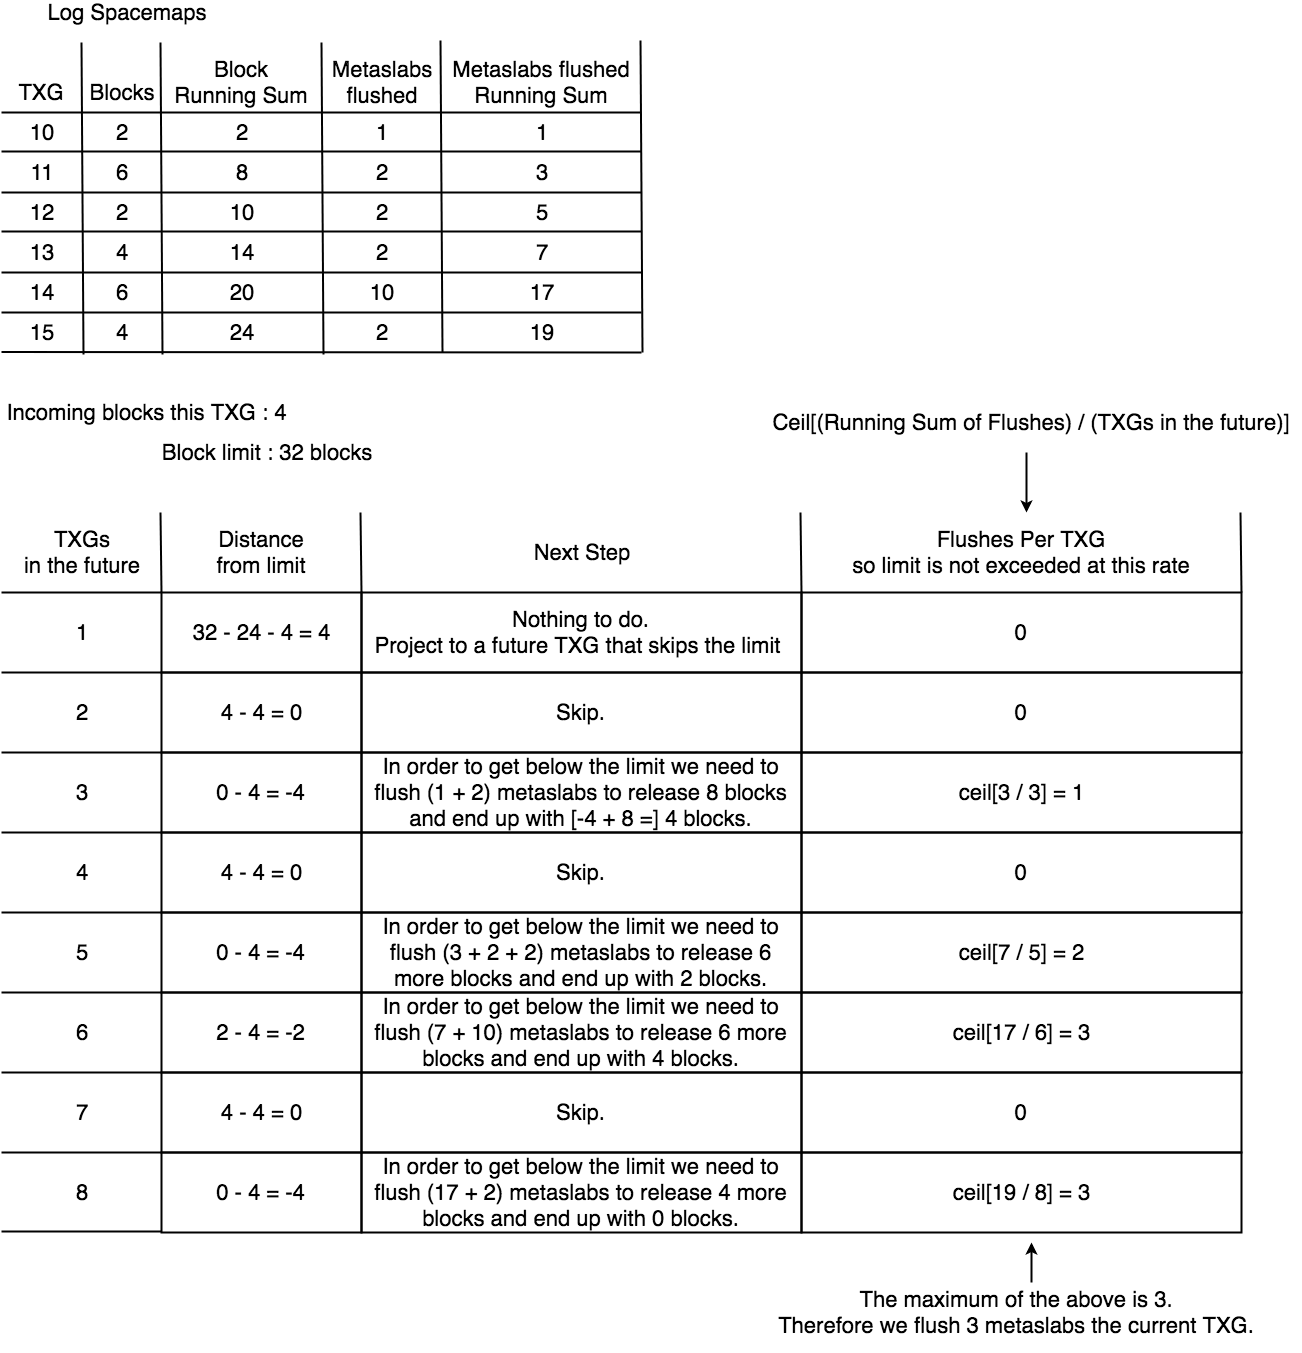
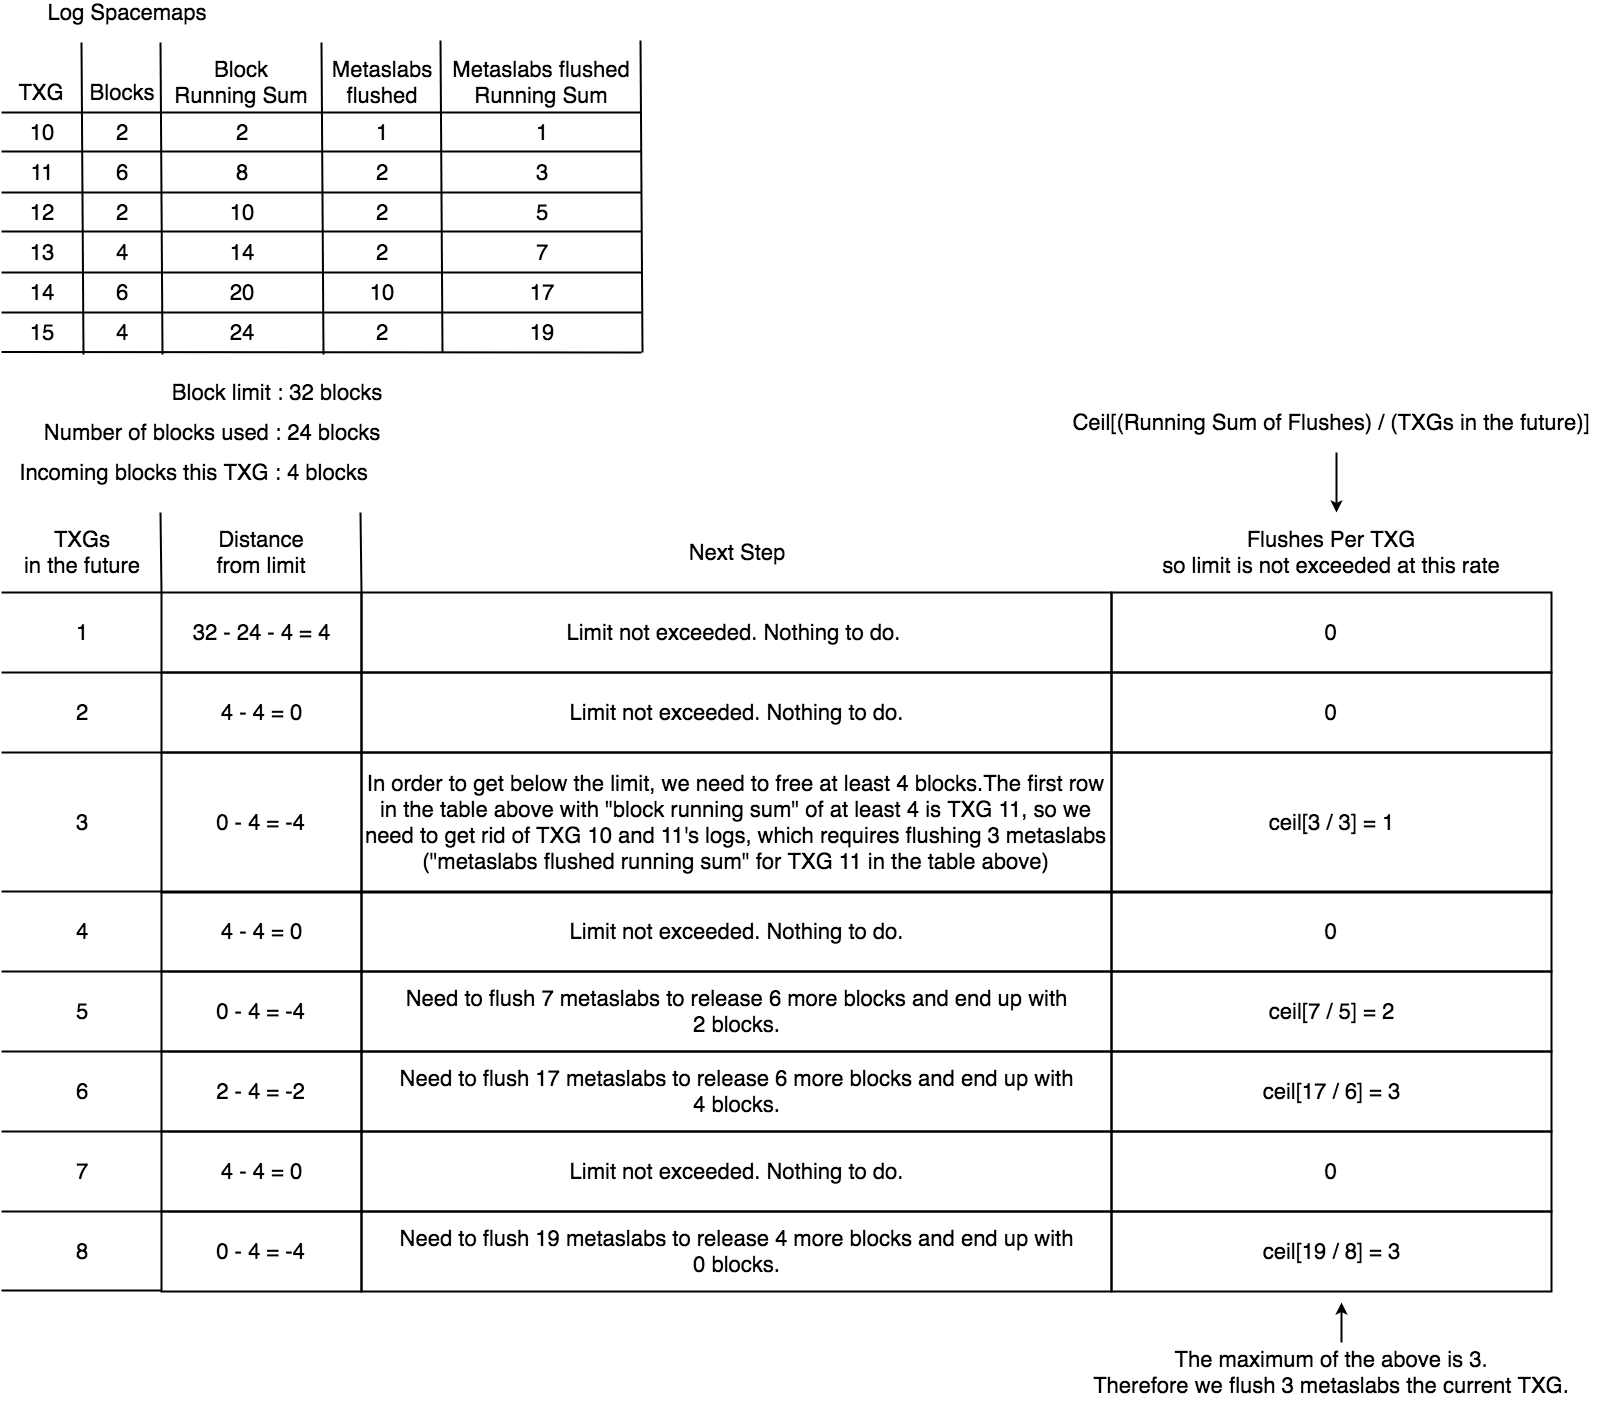
apply feedback to latest post

Changed region(s): [[0.0, 0.3725, 0.9831, 0.9933], [0.0, 0.0, 0.4916, 0.3415], [0.6144, 0.2794, 1.0, 0.3415]]

diff --git a/post/zfs-lsm-flushing/index.html b/post/zfs-lsm-flushing/index.html
@@ -26,8 +26,9 @@
 of the Log Spacemap project - a project that Matt started a long time ago and
 we ended up finishing together the beginning of this year. In order to fully
 grasp the context of this post, I highly recommend that you watch last year&rsquo;s
-presentation first. Regardless, there is still a brief overview in this post,
-as I believe that the subject discussed can be presented in a more abstract manner.</p>
+presentation first (<a href="https://www.youtube.com/watch?v=jj2IxRkl5bQ">link</a>).
+Regardless, there is still a brief overview in this post, as I believe that the
+subject discussed can be presented in a more abstract manner.</p>
 
 <p>This post is about the flushing algorithm of the Log Spacemap project that was
 left as an open question during the aforementioned presentation. It describes the
@@ -40,7 +41,7 @@ that feature to analyze its behavior.</p>
 
 <p>Log spacemaps are an optimization in ZFS metadata allocation for pools whose workloads
 are primarily random-writes (e.g. pools used for databases, VMs, etc..) with high
-levels of fragmentations. To give some background, each vdev in ZFS is divided into
+levels of fragmentation. To give some background, each vdev in ZFS is divided into
 equal parts called metaslabs. ZFS represents each metaslab on-disk with a structure
 called a spacemap (an append-only log of allocations and frees) and in-memory with an
 AVL tree where each node represents a range of free space.</p>
@@ -55,7 +56,7 @@ Instead of doing that, a pool with the Log Spacemap feature enabled, logs the
 changes of all metaslabs in-memory, in 2 new AVL trees per metaslab (called
 <code>unflushed_allocs</code> and <code>unflushed_frees</code>). It also issues a single I/O with all the
 metaslab changes in a pool-wide spacemap on-disk (the <code>log spacemap</code>), for persistence.
-Persistance is needed specifically for the case that a crash happens and the pool
+Persistence is needed specifically for the case that a crash happens and the pool
 has to reconstruct its unflushed state (e.g. repopulated <code>unflushed_allocs</code> and
 <code>unflushed_frees</code> of each metaslab).</p>
 
@@ -68,38 +69,44 @@ following reasons:</p>
 <li>Decrease overheads in the import time after a crash.</li>
 </ol>
 
-<p>[1] happens as the flushing a metaslab means flushing all the segments of <code>unflushed_allocs</code>
-and <code>unflushed_frees</code> in-memory to the metaslab&rsquo;s spacemap on-disk. For [2] the
-situation is a bit more complicated. As TXGs pass and we flush metaslabs from
-oldest-flushed to recently-flushed, log spacemaps of old TXGs become obsolete.
-A log spacemap is said to be obsolete when all its entries have made it to their
-respective metaslab spacemaps. Obsolete log spacemaps can be safely destroyed as
-they are no longer relevant. Obsolete logs are destroyed every TXG so in the
-case of an import after a crash we have less log spacemaps to read in order to
-reconstruct the unflushed state of the pool.</p>
+<p>[1] happens as flushing a metaslab means writing all its segments from <code>unflushed_allocs</code>
+and <code>unflushed_frees</code> to the metaslab&rsquo;s spacemap on-disk, after which we can discard
+the in-memory unflushed trees. For [2] the situation is a bit more complicated.
+As TXGs pass and we flush metaslabs from oldest-flushed to recently-flushed, log
+spacemaps of old TXGs become obsolete. A log spacemap is said to be obsolete when
+all its entries have made it to their respective metaslab spacemaps. Obsolete log
+spacemaps can be safely destroyed as they are no longer relevant. Obsolete logs
+are destroyed every TXG so in the case of an import after a crash we have fewer
+log spacemaps to read in order to reconstruct the unflushed state of the pool.</p>
+
+<p>The decision of flushing metaslabs in order, from oldest to recently flushed, is
+essential here as it helps us determine when a log spacemap becomes obsolete.
+Without having to look at its actual entries, we can be certain that a log spacemap
+is obsolete if all the metaslabs in the pool have been flushed since the TXG that
+the spacemap was created. Thus, flushing the oldest-flushed metaslab is always
+best for helping to delete old log spacemaps.</p>
 
 <h4 id="why-is-the-flushing-algorithm-important">~ Why is the flushing algorithm important?</h4>
 
-<p>There are two aspects of the Log Spacemap feature that can be problematic if there
-is no explicit policy on how flushing is handled. The most straightforward one is
-memory usage. In this new world, each metaslab has 2 extra AVL trees that contain
-segments which are waiting to be flushed to their metaslab&rsquo;s spacemap. The more
-segments are held in memory like this, the bigger the pressure on the system. When
-we flush a metaslab, we flush all the segments from the aforementioned AVLs to disk,
-relieving some of this pressure.</p>
+<p>There are a few aspects of the Log Spacemap feature that can be problematic if
+there is no explicit policy on how flushing is handled. The most straightforward
+one is memory usage. In this new world, each metaslab has 2 extra AVL trees that
+contain segments which are waiting to be flushed to their metaslab&rsquo;s spacemap.
+The more segments are held in memory like this, the bigger the pressure on the
+system. When we flush a metaslab, we flush all the segments from the aforementioned
+AVLs to disk, relieving some of this pressure.</p>
 
-<p>The other aspect is the amount of blocks used for log spacemaps on-disk. Not only
-the amount of log spacemaps blocks shouldn&rsquo;t grow without a bound, but there should
-be an explicit limit to keep it in check. If no such limit exists there would be
-no bound to the overhead induced at import time after a crash. Flushing metaslabs
-often can help keep the log short. On the other hand, flushing too often defeats
-the purpose of the log spacemap feature.</p>
+<p>The other aspect is the amount of blocks used for log spacemaps on-disk. There
+should be an explicit limit to keep it in check. If no such limit exists there
+would be no bound to the overhead induced at import time after a crash. Flushing
+metaslabs often can help keep the log short. On the other hand, flushing too often
+defeats the purpose of the log spacemap feature.</p>
 
 <p>To summarize the above, the ideal flushing algorithm should:</p>
 
 <ol>
-<li>React when the memory usage of the feuture is getting out of hand.</li>
-<li>Don&rsquo;t flush metaslabs too often in order to minimize the # of I/Os issued.</li>
+<li>React when the memory usage of the feature is getting out of hand.</li>
+<li>Not flush metaslabs too often in order to minimize the # of I/Os issued.</li>
 <li>Flush metaslabs rarely enough so they utilize their I/O blocksize.</li>
 <li>Flush frequently enough so import times after crashing are not severely impacted.</li>
 <li>Behave in a consistent and predictable manner.</li>
@@ -120,10 +127,11 @@ are doing.</p>
 <p>The simplest approach to this is to ensure that the memory usage of the unflushed
 trees stays below a certain threshold. The threshold can be determined by an
 arbitrary hard limit (e.g. 1GB is the max amount of memory that can be used by
-unflushed changes), and an arbitrary percentage of the system&rsquo;s memory (e.g.
-unflushed changes should not take up more that 0.1% of the system&rsquo;s memory). From
-these two, we pick the lowest one as the threshold. Whenever the threshold is
-exceeded the system starts flushing metaslabs until it gets below it again.</p>
+all unflushed changes in the pool), and an arbitrary percentage of the system&rsquo;s
+memory (e.g. unflushed changes should not take up more that 0.1% of the system&rsquo;s
+memory). From these two, we pick the lowest one as the threshold. Whenever the
+threshold is exceeded the system starts flushing metaslabs until it gets below
+it again.</p>
 
 <h4 id="coming-up-with-a-block-heuristic">~ Coming up with a block heuristic</h4>
 
@@ -135,16 +143,13 @@ a future section, and it allows us to focus on the flushing algorithm. Before th
 happens though, it is helpful to define a more abstract model on how log spacemap
 blocks are deleted on a running system.</p>
 
-<p>The model goes like this: At TXG <code>T</code>, a group of metaslabs <code>G</code> is flushed and the
-changes of all the metaslabs in the pool are written in a log spacemap <code>S</code>.
-Metaslabs picked for group <code>G</code> that will be flushed, are always chosen in an ordered
-fashion from oldest-flushed to recently-flushed from all the metaslabs in the pool.
-The idea here is that in theory the oldest-flushed had enough time to accumulate
-changes and utilize its blocksize better when we flush it than a metaslab that was
-just flushed and doesn&rsquo;t have unflushed changes. As TXGs pass, more metaslabs are
-flushed and entries from <code>S</code> become obsolete. At some point, the system does a full
-circle around the metaslabs and has flushed each one of them. At that point it is
-guaranteed that all blocks from <code>S</code> are obsolete, and <code>S</code> can be destroyed.</p>
+<p>The model goes like this: At TXG <code>T</code>, the changes of all the metaslabs in the
+pool are written in a log spacemap <code>S</code> and a group of metaslabs <code>G</code> is flushed.
+Metaslabs in group <code>G</code> are always chosen in an ordered fashion from oldest-flushed
+to recently-flushed from all the metaslabs in the pool. As TXGs pass, more metaslabs
+are flushed and entries from <code>S</code> become obsolete. At some point, the system does a
+full circle around the metaslabs and has flushed each one of them. At that point it
+is guaranteed that all blocks from <code>S</code> are obsolete, and <code>S</code> can be destroyed.</p>
 
 <p>The simplest example of the above model is a hypothetical pool with 10 metaslabs.
 At TXG 1, we flush metaslab 1 and log all the changes of all metaslabs in log
@@ -157,11 +162,11 @@ can get rid of log 1 and all of its blocks.</p>
 
 <p>So with the above model in mind we are ready to start coming up with heuristics:</p>
 
-<h4 id="limit-only-heuristic">* Limit-Only Heuristic</h4>
+<h4 id="block-limit-only-heuristic">* Block Limit-Only Heuristic</h4>
 
 <p>The simplest heuristic would be to just let the limit do the work. In other words,
-whenever the limit is exceeded, keep flushing metaslabs until enough blocks are
-destroyed and the system is again below the limit.</p>
+whenever the block limit is exceeded, keep flushing metaslabs until enough blocks
+are destroyed and the system is again below the limit.</p>
 
 <p>The problem with this approach is visible through the graphs below.
 <p align="center">
@@ -174,12 +179,13 @@ destroyed and the system is again below the limit.</p>
 <p>These graphs are part from a larger experiment where we were simulating a pool with
 ~330 metaslabs (and therefore a block limit of about the same size). The issue here
 is that no flushing takes place until it is really late, and at that point the majority
-of the metaslabs are flushed at once. This is obviously far from the ideal.</p>
+of the metaslabs are flushed at once. This is far from the ideal. The heuristic is
+unpredictable and as a result, susceptible to many performance pathologies.</p>
 
 <h4 id="average-block-and-average-metaslab-heuristic">* Average Block and Average Metaslab Heuristic</h4>
 
 <p>A better heuristic would take into account the flushing history or the amount of log
-blocks accumulated so far. Two simple heuristics derived by those ideas are the
+blocks accumulated so far. Two simple heuristics derived from those ideas are the
 following:</p>
 
 <ul>
@@ -198,7 +204,7 @@ on average each TXG. Then flush that same amount whenever there is no pressure f
 the block limit.</p>
 
 <ul>
-<li>Average Blocks-Per-Log Heurstisic</li>
+<li>Average Blocks-Per-Log Heuristic</li>
 </ul>
 
 <pre><code>if block limit is exceeded:
@@ -239,9 +245,20 @@ to flush in order to get rid of X log spacemap blocks?&rdquo; at any given time.
 can be answered by iterating backwards from the oldest log spacemap to the newest
 one and looking at their metaslab and block counts.</p>
 
-<p>Taking the picture below as an example, the answer of how many metaslabs we need to
-flush in order to get rid of 6 log spacemap blocks, is 2. If we wanted to get rid of
-8 or 9 or 10 blocks, then we would need to flush 5 metaslabs.</p>
+<p>The picture below is an example of the log spacemaps in a pool at some TXG <code>T</code>. For
+each log spacemap, we know the number of blocks of the spacemap and the number of
+metaslabs flushed at the TXG that it was created. For the oldest log spacemap,
+the number of metaslabs flushed in the same TXG that it was created is also the
+number of metaslabs that need to be flushed in order for us to destroy it. In the
+example below this is 2 metaslabs. For the second oldest log spacemap, the number
+of metaslabs that need to be flushed in order for it to get destroyed, is the number
+of metaslabs metaslabs needed to destroy the previous log (the oldest one) plus the
+number of metaslabs that were flushed in the TXG that it was created. In our example,
+that is 5 metaslabs. And so on for the rest of the spacemaps. Doing the same calculations
+but in terms of number of log spacemap blocks instead of log spacemaps, the answer
+of how many metaslabs we need to flush in order to get rid of 6 log spacemap blocks,
+is 2. If we wanted to get rid of 8 or 9 or 10 blocks, then we would need to flush 5
+metaslabs.</p>
 
 <p align="center">
   <img src="https://sdimitro.github.io/img/lsm/rsum_example.png" width="75%" height="50%"/>
@@ -268,6 +285,18 @@ These projections exemplify how points [1] and [2] come into play.</p>
 <p align="center">
   <img src="https://sdimitro.github.io/img/lsm/rs_heuristic.png" width="100%" height="75%"/>
 </p>
+
+<p>Running a sample simulation of the algorithm in a hypothetical pool of 300
+metaslabs, with incoming blocks chosen randomly between 10 and 64 for a span of
+1000 TXGs (same setup as the Block Limit-Only heuristic), we see the following:</p>
+
+<p align="center">
+  <img src="https://sdimitro.github.io/img/lsm/summary_flush_example.png" width="75%" height="70%"/>
+</p>
+
+<p>The maximum number of metaslabs ever flushed in a TXG was 24 and the average
+metaslabs flushed per TXG was 11. That&rsquo;s close to ~4% of the total number of
+metaslabs in the pool flushed each TXG on average (with the max being 8%).</p>
 
 <h4 id="towards-an-implementation-running-sums-with-a-summary">~ Towards An Implementation (Running Sums with a Summary)</h4>
 
@@ -322,8 +351,15 @@ we accumulate more changes per flush.</p>
 
 <p>Given that the limit indirectly controls the flush rate (metaslabs flushed per TXG)
 we decided to implement it as a tunable expressed as a percentage in terms of the
-number of metaslabs in the pool. We decided to make this tunable to be 4 times the
-number of metaslabs in the pool with the following assumptions in mind:</p>
+number of metaslabs in the pool. As for setting a default, the idea is the following:
+If the whole log were to be flushed, each metaslab would be flushed once. To make
+the most of each flush, we would want to write at least one whole block to each
+metaslab&rsquo;s spacemap. Thus, we want the amount of data in all the log spacemaps to
+to be at least equal to the number of metaslabs, in terms of metaslab spacemap
+blocks, when flushed.</p>
+
+<p>With that in mind, we decided to make this tunable to be 4 times the number of
+metaslabs in the pool with the following assumptions in mind:</p>
 
 <ul>
 <li>Assuming a constant flush rate and a constant incoming rate of log blocks it is
@@ -390,11 +426,11 @@ the pool should be flushing:</p>
 <p><code>200 / 2 / 4 = 25</code></p>
 
 <p>25 metaslabs per TXG in order to stay under the limit. Thus, if we were to
-hypthetically get rid of the whole spacemap log with that flushing rate it would
+hypothetically get rid of the whole spacemap log with that flushing rate it would
 take 2560 TXGs <code>[= 64K metaslabs / 25 metaslabs flushed per TXG]</code> (this is
 basically how many TXGs it would take us to flush all the metaslabs in the pool).
 In a span of that many TXGs and the steady incoming rate stated above, the
-culmulative size of all our log spacemaps should be
+cumulative size of all our log spacemaps should be
 <code>[2560 TXGs * 200 log blocks per TXG =]</code> 512K log blocks.</p>
 
 <p>This means that if the log block limit is less than 512K, the system will flush
@@ -462,40 +498,41 @@ any performance pathologies that we could think of, we can&rsquo;t really forese
 workload that a pool with this feature enabled will experience. As a result, we
 made sure to implement a lot of introspection in the behavior of the feature.</p>
 
-<p><code>zdb</code> can now print:
-* the TXG where each metaslab was last flushed</p>
+<p><code>zdb</code> can now print:</p>
+
+<ul>
+<li><p>the TXG where each metaslab was last flushed</p>
 
 <pre><code>$ sudo zdb rpool
 ...
-        metaslab      1   offset     20000000   spacemap     58   free     496M
-        On-disk histogram:              fragmentation 7
-                          9:      8 *******
-                         10:      6 *****
-                         11:      4 ****
-                         12:      3 ***
-                         13:      4 ****
-                         14:      8 *******
-                         15:     38 ******************************
-                         16:     28 **********************
-                         17:     51 ****************************************
-                         18:     34 ***************************
-                         19:     28 **********************
-                         20:     23 *******************
-                         21:     18 ***************
-                         22:      5 ****
-                         23:      5 ****
-                         24:      6 *****
-                         25:      1 *
-                         26:      1 *
+    metaslab      1   offset     20000000   spacemap     58   free     496M
+    On-disk histogram:              fragmentation 7
+                      9:      8 *******
+                     10:      6 *****
+                     11:      4 ****
+                     12:      3 ***
+                     13:      4 ****
+                     14:      8 *******
+                     15:     38 ******************************
+                     16:     28 **********************
+                     17:     51 ****************************************
+                     18:     34 ***************************
+                     19:     28 **********************
+                     20:     23 *******************
+                     21:     18 ***************
+                     22:      5 ****
+                     23:      5 ****
+                     24:      6 *****
+                     25:      1 *
+                     26:      1 *
 space map object 58:
-  smp_length = 0x2d1b0
-  smp_alloc = 0x1016800
-        Flush data:
-        unflushed txg=23350   # &lt;----- HERE
+smp_length = 0x2d1b0
+smp_alloc = 0x1016800
+    Flush data:
+    unflushed txg=23350   # &lt;----- HERE
 ...
-</code></pre>
+</code></pre></li>
 
-<ul>
 <li><p>the contents of each log spacemap</p>
 
 <pre><code>$ sudo zdb -mmmm rpool
